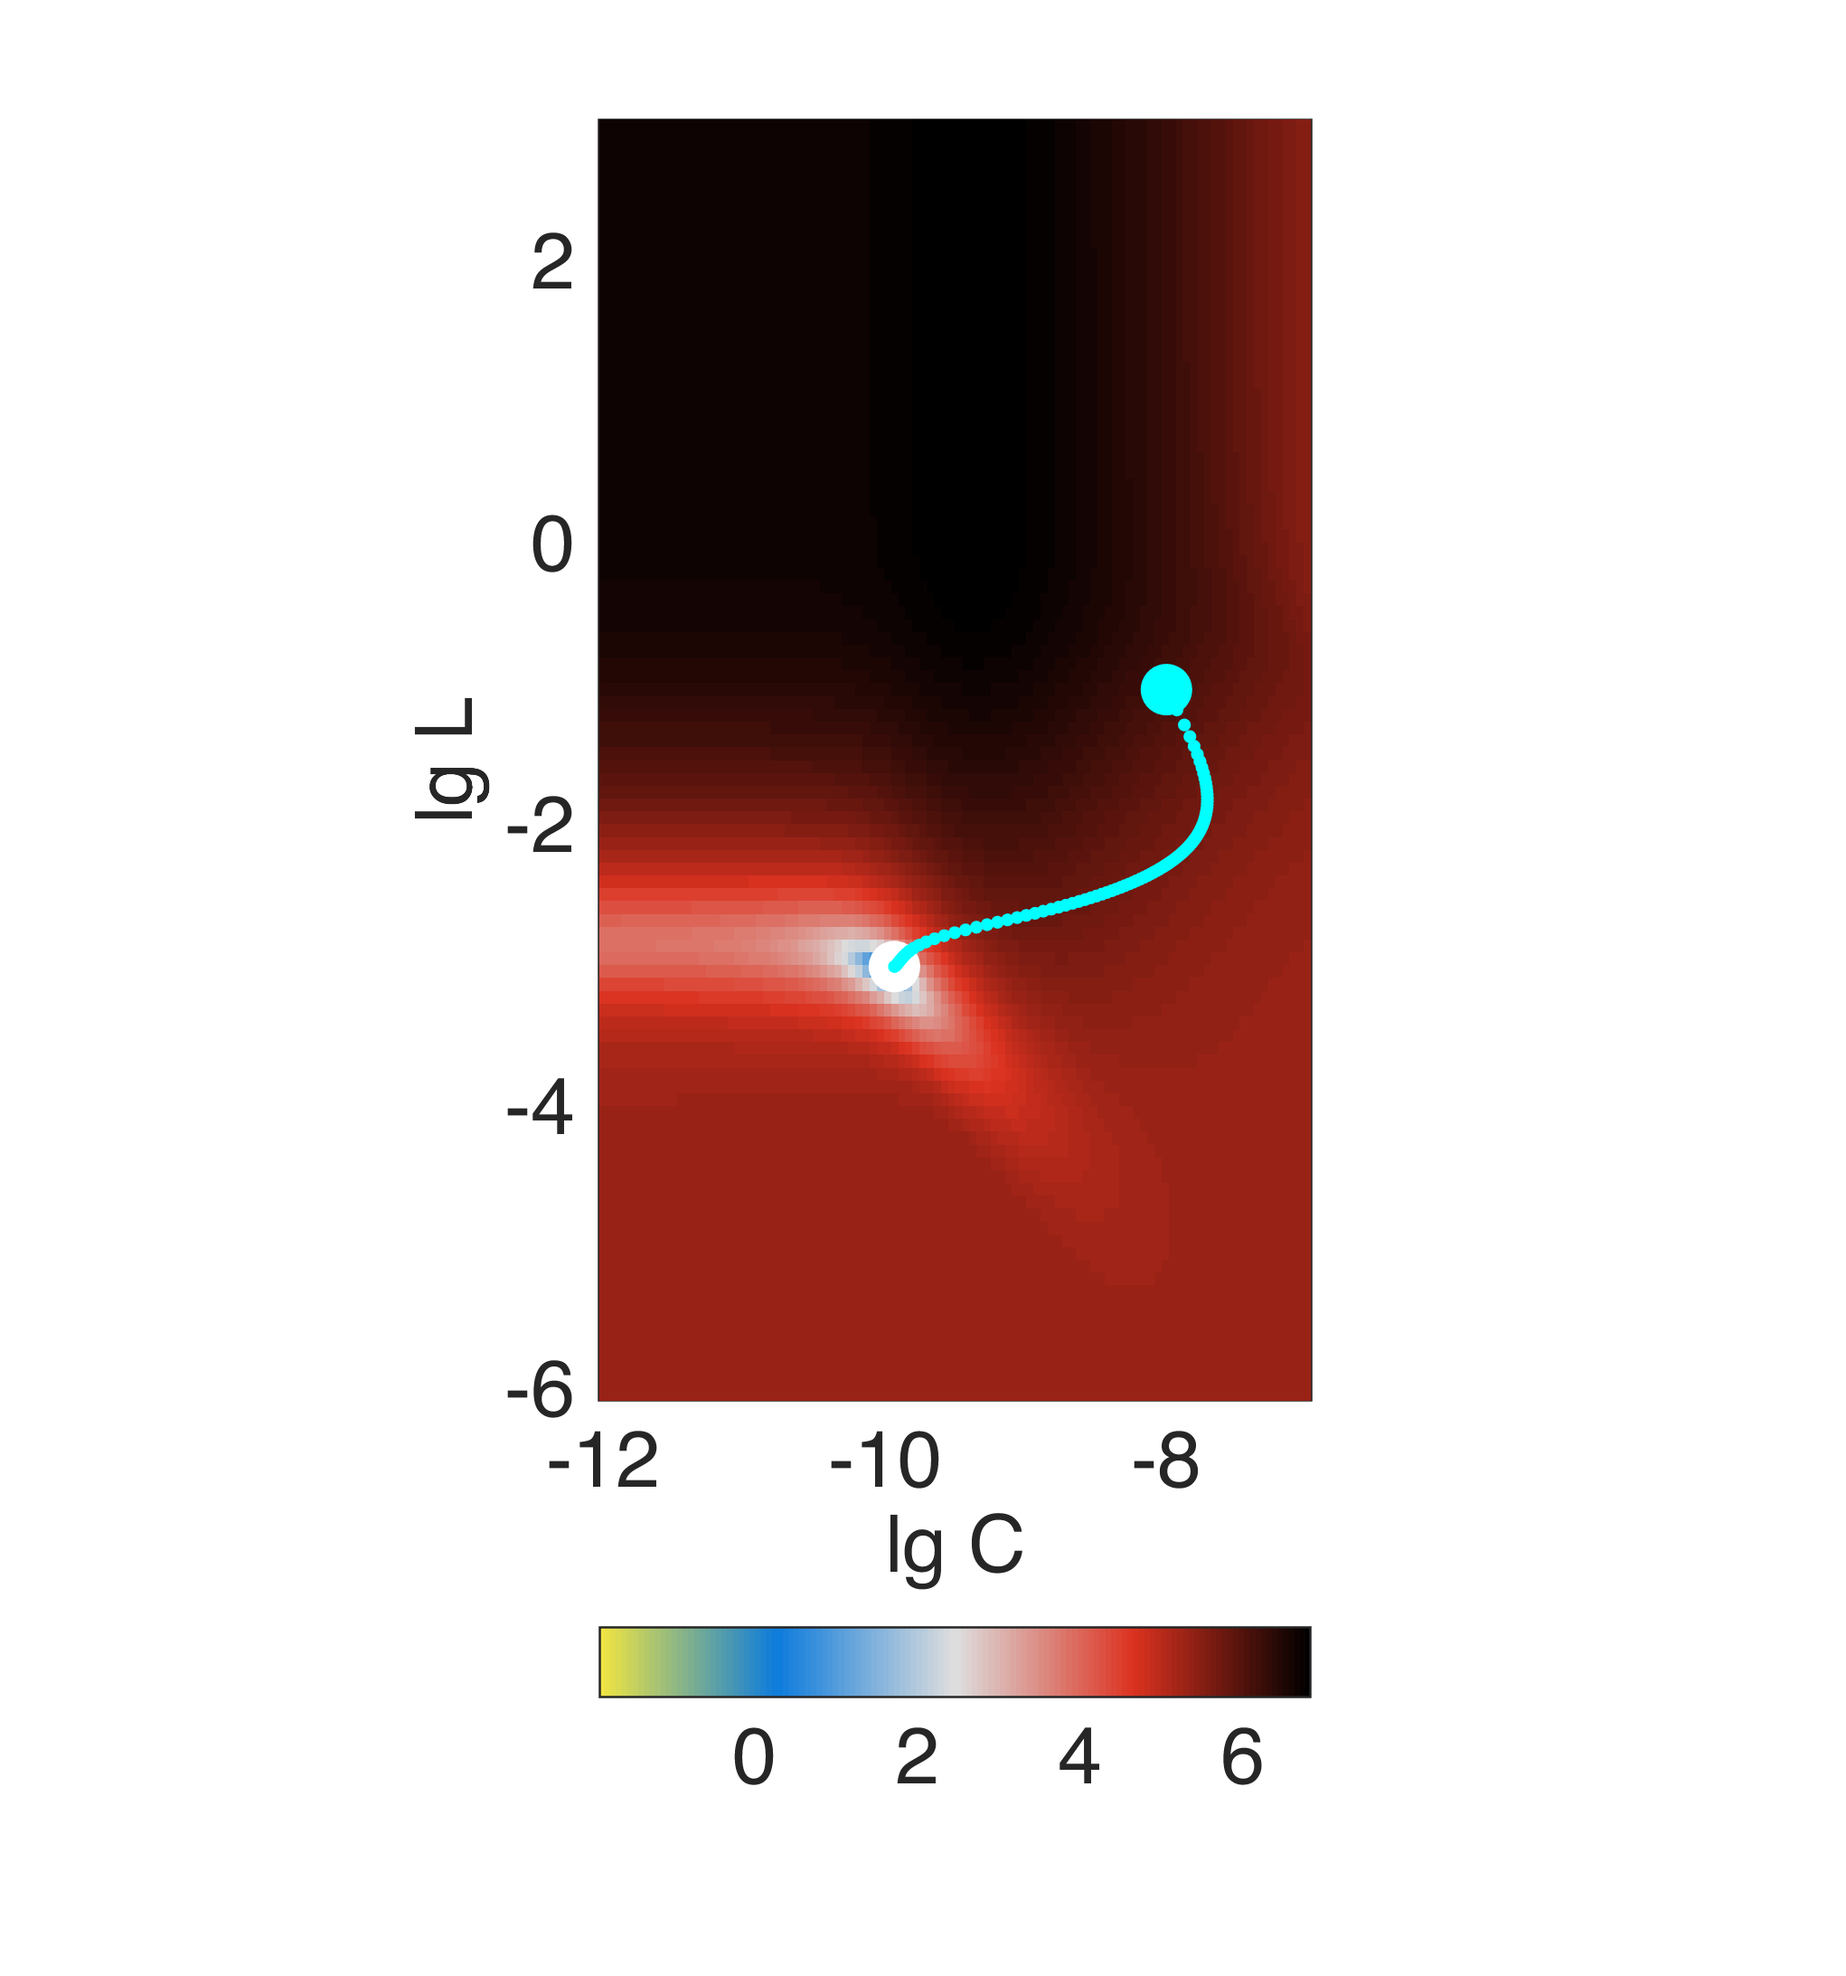
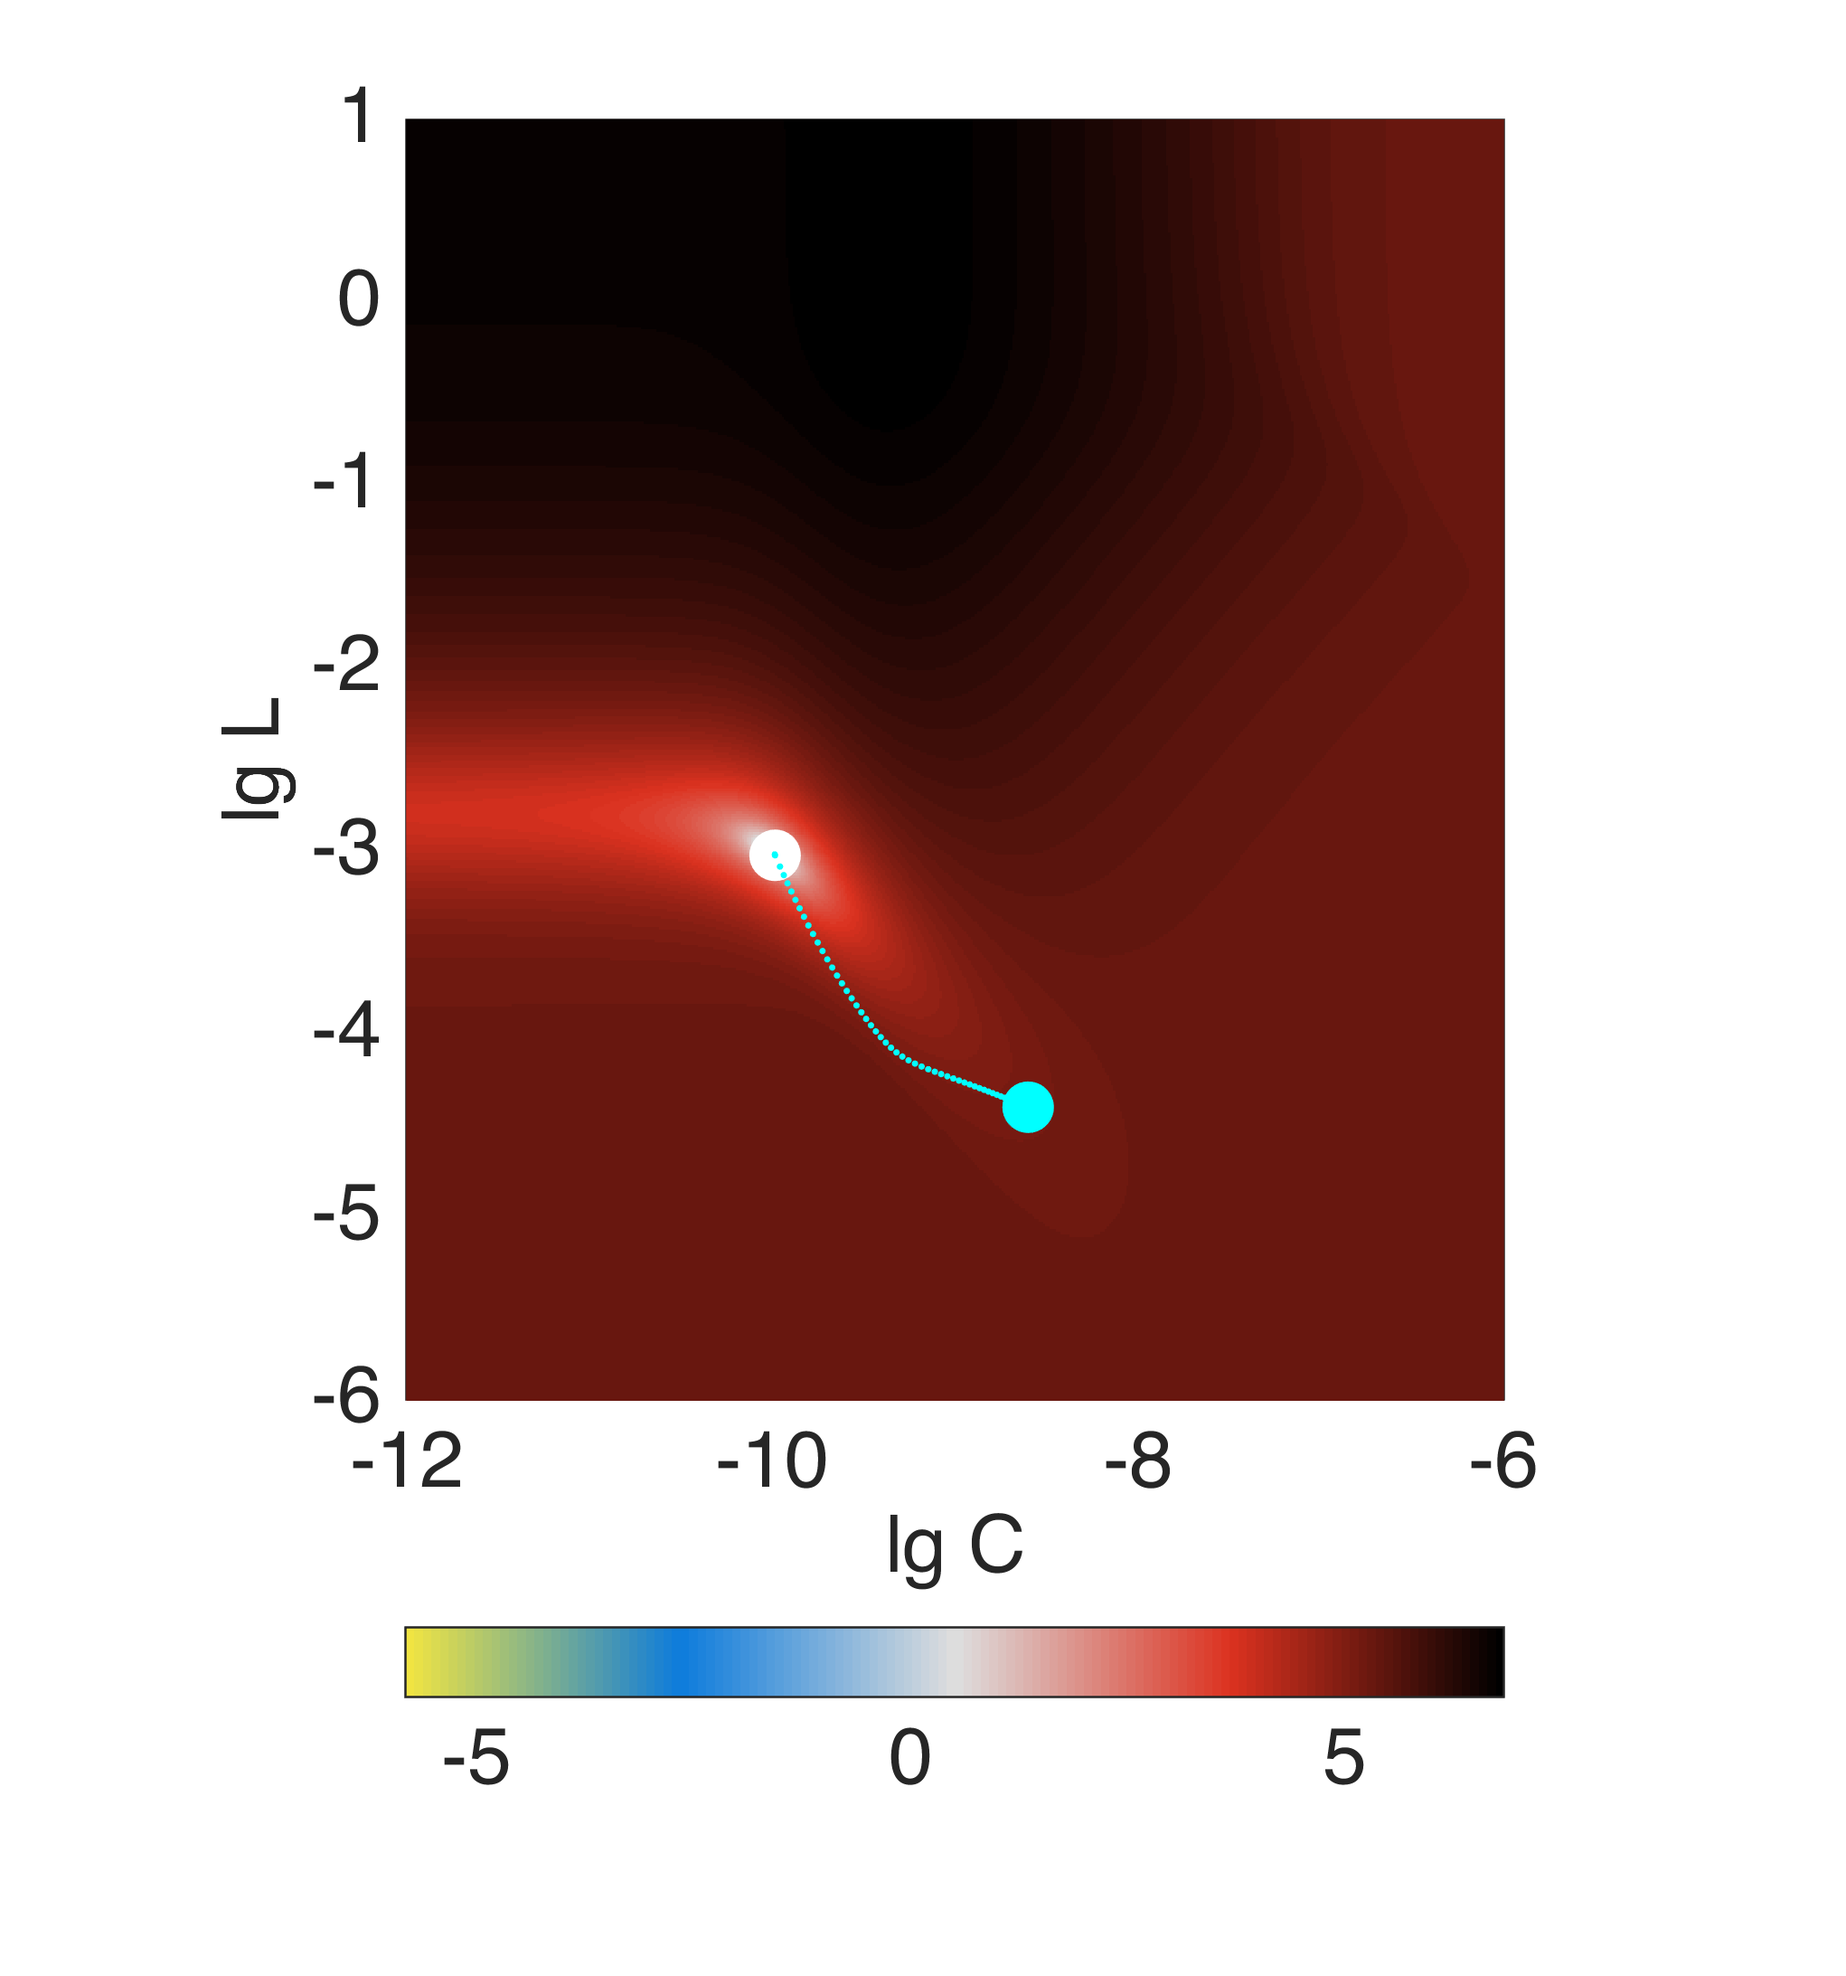
📧 better

diff --git a/projects/opti/em-calibration/emcali_.m b/projects/opti/em-calibration/emcali_.m
@@ -13,9 +13,9 @@ addpath('src/')
 % ∂c(d) = (b*s*(a - b).*(l*s + r)^2) ./ (a*(b*c*s.*(l*s + r) + b + l*s + r)^2)
 % ------------------------------------------------------------------------------
 % 📩
-% load('C:\Users\au699065\OneDrive - Aarhus Universitet\Documents\diego\code\tmp\TEM_coil_cal.mat');
-load('C:\Users\au699065\OneDrive - Aarhus Universitet\Documents\diego\code\tmp\TEM_coil_cal_NG1.mat');
-% load('C:\Users\au699065\OneDrive - Aarhus Universitet\Documents\diego\code\tmp\TEM_coil_cal_NG2.mat');
+% load('..\..\..\..\tmp\TEM_coil_cal.mat');
+% load('..\..\..\..\tmp\TEM_coil_cal_NG1.mat');
+load('..\..\..\..\tmp\TEM_coil_cal_NG2.mat');
 % ------------------------------------------------------------------------------
 r= complex(double(R),0);
 a= complex(double(Rd1),0);
@@ -29,30 +29,42 @@ clear R Rd1 Rd2 D1 D2
 datao = datao2 ./ datao1;
 ns = numel(s);
 % ------------------------------------------------------------------------------
-% fprintf('\n\n   gonna put some noise 🎶\n')
-% rng(1);
-% noimagre = std(real(datao));
-% noimagim = std(imag(datao));
-% noimagre = 0.1*noimagre;
-% noimagim = 0.1*noimagim;
-% datao = datao + (noimagre*rand(numel(s),1) + noimagim*1i*rand(numel(s),1));
+fprintf('\n\n   gonna put some noise 🎶\n')
+rng(1);
+noimagre = std(real(datao));
+noimagim = std(imag(datao));
+noimagre = 0.1*noimagre;
+noimagim = 0.1*noimagim;
+datao = datao + (noimagre*rand(numel(s),1) + noimagim*1i*rand(numel(s),1));
 % ------------------------------------------------------------------------------
 % fprintf('\n\n   gonna halve the data 💕\n')
 % datao = datao(1:2:ns);
 % s = s(1:2:ns);
 % ------------------------------------------------------------------------------
 % 📟
-niter = 200; % 100;
+niter = 500; % 100;
 % 🚚 true values
 %          l = 1e-3;
 %          c = 1e-10;
 %  1e-6  < l < 1e-2
 %  1e-12 < c < 1e-9
-l= 1e-1; % 1e-1; % 1e-2
-c= 1e-8; % 1e-8; % 1e-9
+l= 10^(-4.4); % 1e-5; % 8e-5; % 1e-1; % 1e-2
+c= 10^(-8.6); % 1e-7; % 1.6e-9; % 1e-8; % 1e-9
 kparam_ = 1/(ns*1e4); % 1e-9;  % 1e-7;
 kparam__= 1e2/ns; % 1e-3;  % 1e-1;
 nparabo = 3;     % 3
+% ------------------------------------------------------------------------------
+% % the idea here is that given a value for 'l',
+% % then 'c' has to be a certain way,
+% % so maybe doing what is beneath makes the initial guess better.
+% % not really though 😞
+% ------------------------------------------------------------------------------
+% for ii=1:10
+%   c = (r/a - 1 + l*s.*(1/a - datao/b)) ./ ((datao-1)*l.*s.^2 + r*s.*(datao - 1));
+%   c = abs(real(c(ns)));
+%   l = (r/a - 1 + r*c*s.*(1 - datao)) ./ ((datao-1)*c.*s.^2 + s.*(datao/b - 1/a));
+%   l = abs(real(l(ns)));
+% end
 % ------------------------------------------------------------------------------
 % 📦
 param = zeros(5,1);
@@ -96,6 +108,8 @@ simple_figure();
 % ylabel('iR data ( - )')
 % simple_figure();
 % ------------------------------------------------------------------------------
+tolerr = 1e-5;
+obj = tolerr + 1;
 obj_ = zeros(niter,1);
 steps_ = zeros(niter,1);
 
@@ -103,7 +117,7 @@ parammm=zeros(2,niter);
 % ------------------------------------------------------------------------------
 iter_=1;
 tic;
-while (iter_ < niter+1)
+while (obj>tolerr & iter_ < niter+1)
   % 👉
   data = fwdemcali(param,s);
   % Θ & residual
@@ -116,6 +130,7 @@ while (iter_ < niter+1)
   dparam = -step_*grad_;
   % ☝📅
   param = param.*exp(param.*dparam);
+
   % 🚶🚶
   obj_(iter_) = obj;
   steps_(iter_) = step_;
@@ -183,8 +198,8 @@ nll=1e2;
 ncc=1e2;
 % ll = logspace(-4,-2,nll);
 % cc = logspace(-11,-9,ncc);
-ll = logspace(-6,3,nll);
-cc = logspace(-12,-7,ncc);
+ll = logspace(-6,1,nll);
+cc = logspace(-12,-6,ncc);
 obje = zeros(nll,ncc);
 param_=param;
 for ill=1:nll
@@ -214,6 +229,9 @@ ylabel('lg L')
 simple_figure()
 % ------------------------------------------------------------------------------
 % 🐛
+% lichao gave me 3 examples with the same 'l' & 'c',
+% but different 'a' & 'b' and he didn't give me a heads up. fucker.
+% so this plot was made to figure that out.
 figure(4);
 subplot(1,2,1);
 hold on;
